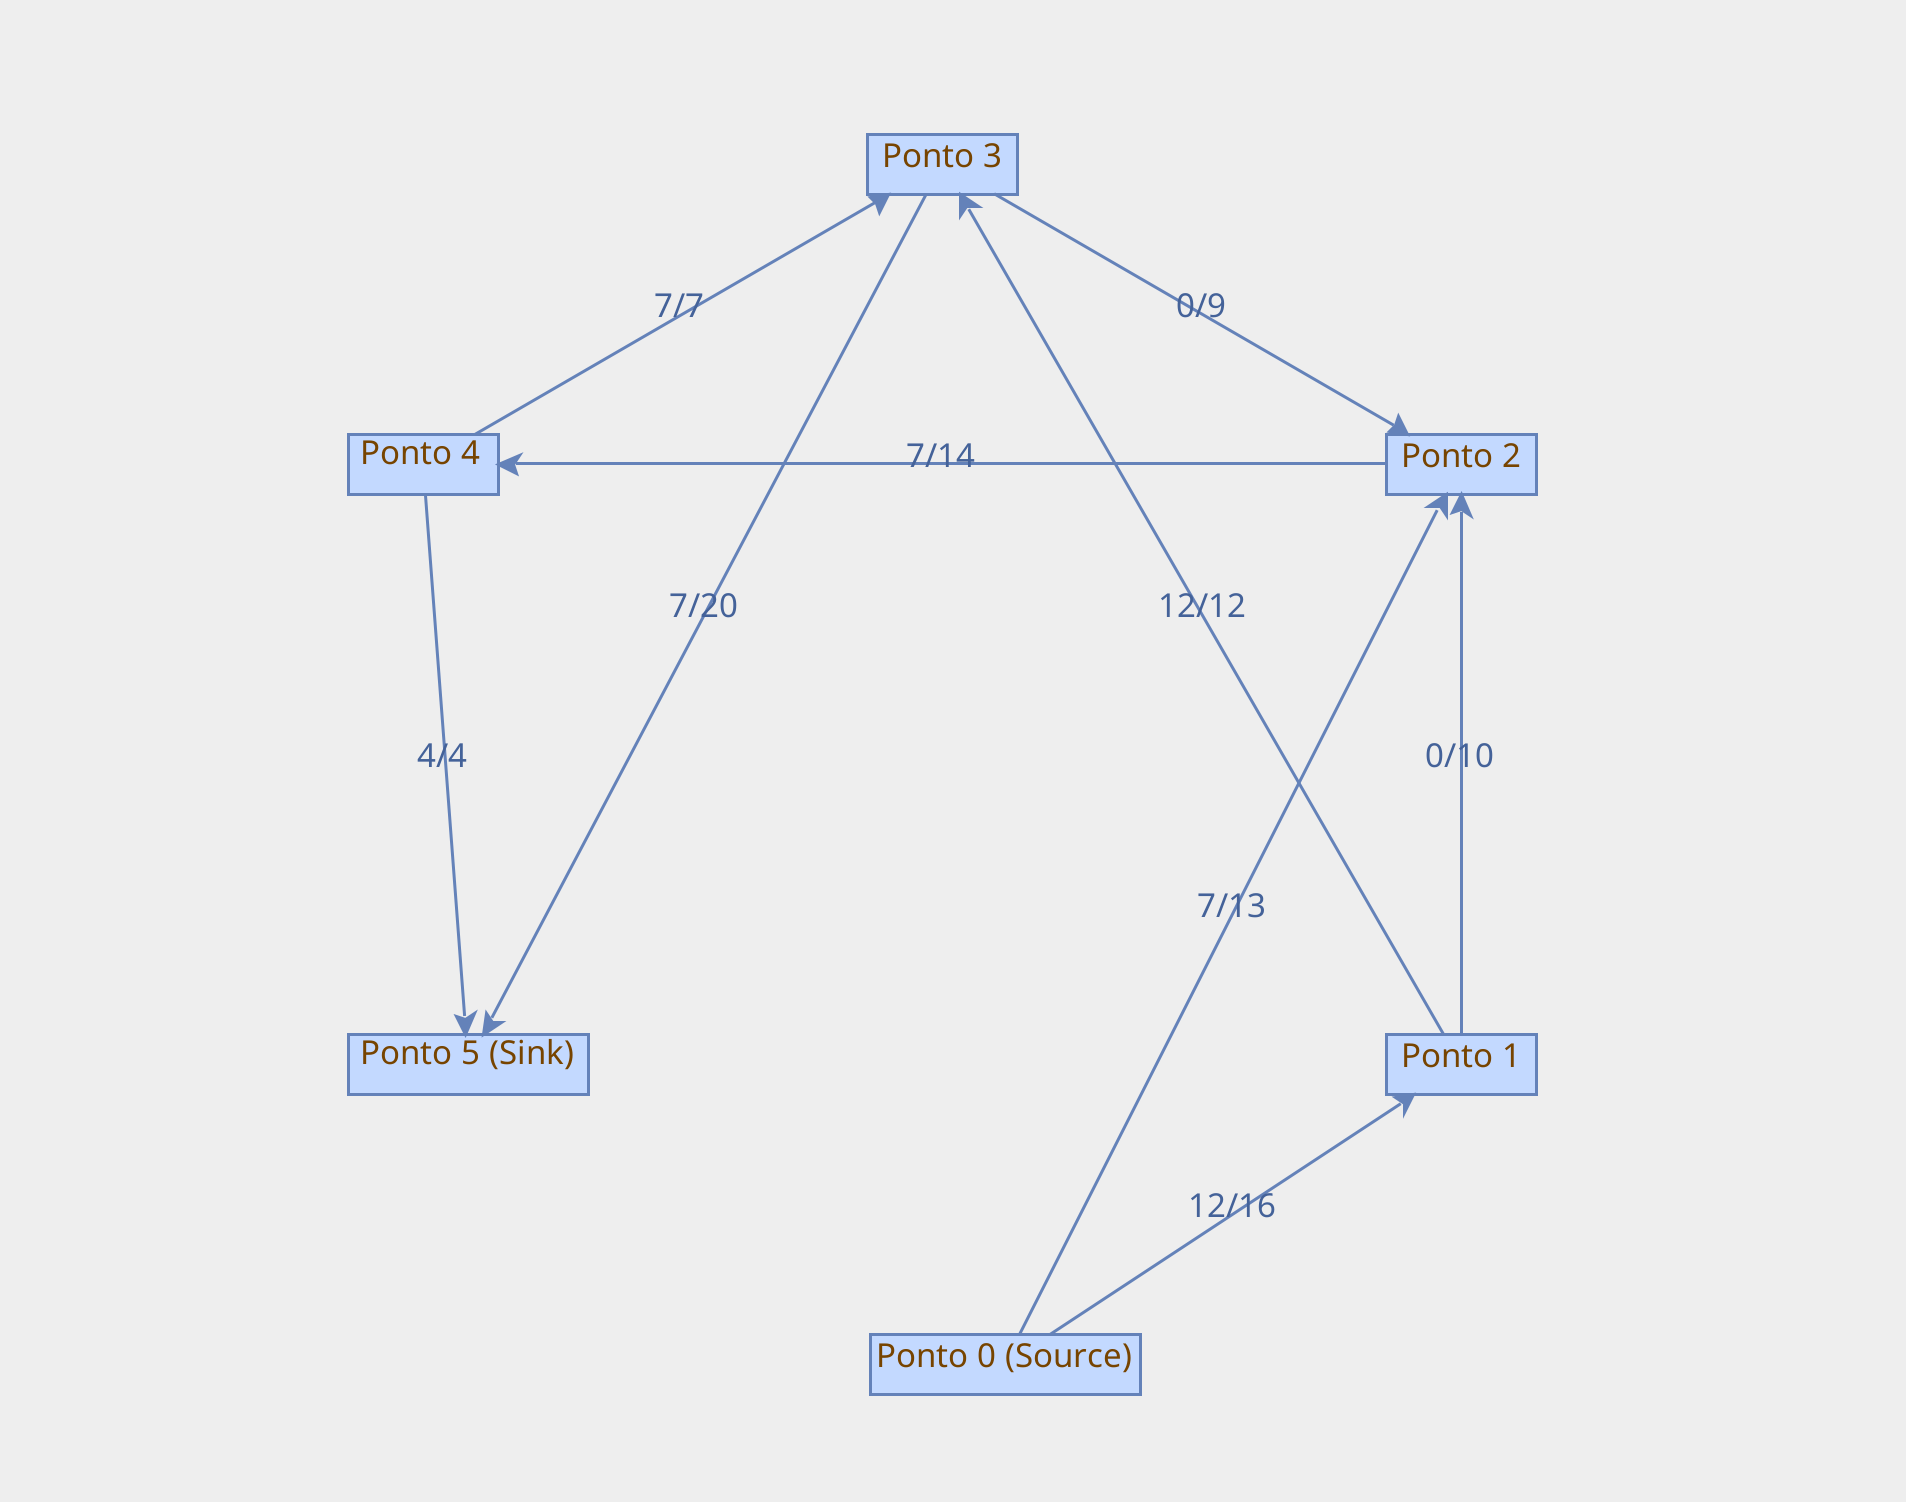
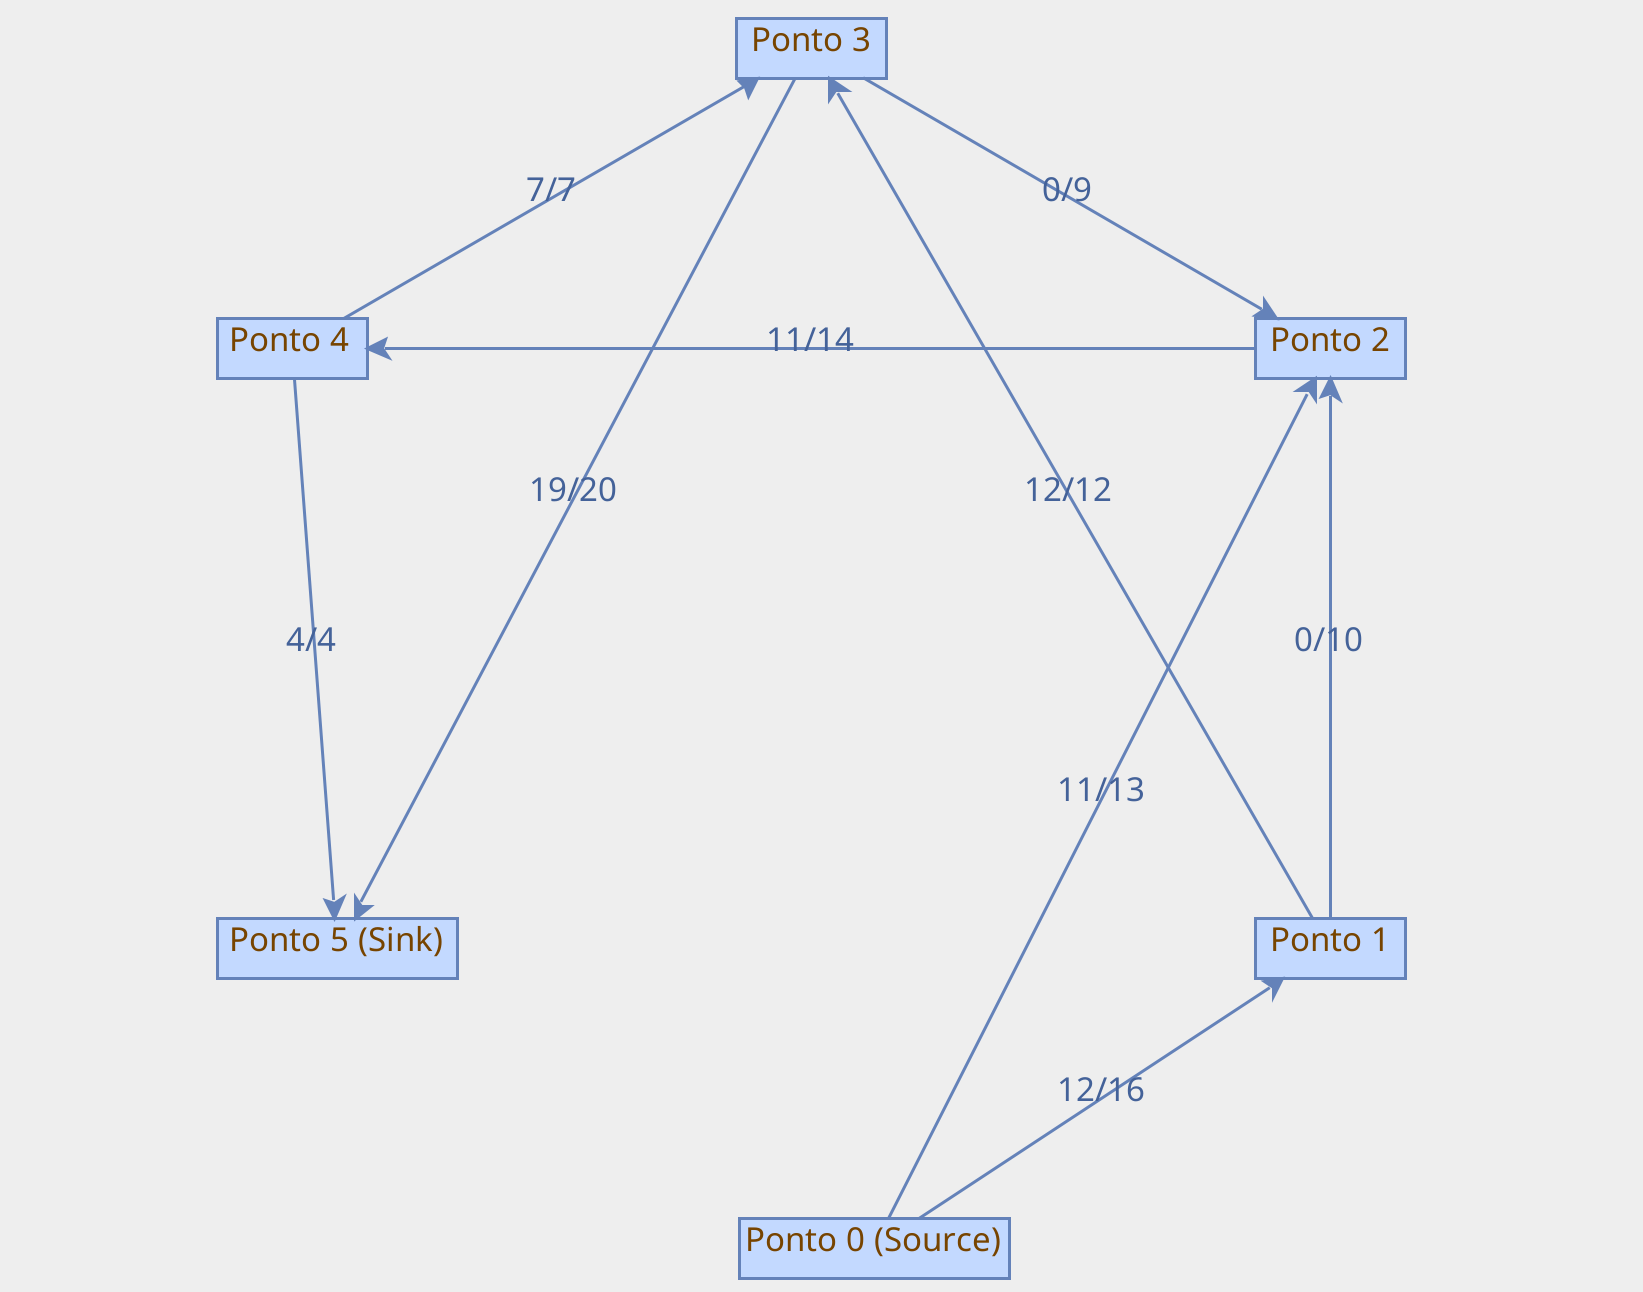
fix: Accumulate flow on recurring edges

diff --git a/src/main/java/asa/fordfulkerson/FordFulkerson.java b/src/main/java/asa/fordfulkerson/FordFulkerson.java
@@ -37,7 +37,7 @@ public class FordFulkerson {
             target = vertexNamer.nameVertex(path.get(i + 1));
 
             if ((edge = visualGraph.getEdge(source, target)) != null)
-                edge.setFlow(pathFlow);
+                edge.setFlow(pathFlow + edge.getFlow());
         }
     }
 
